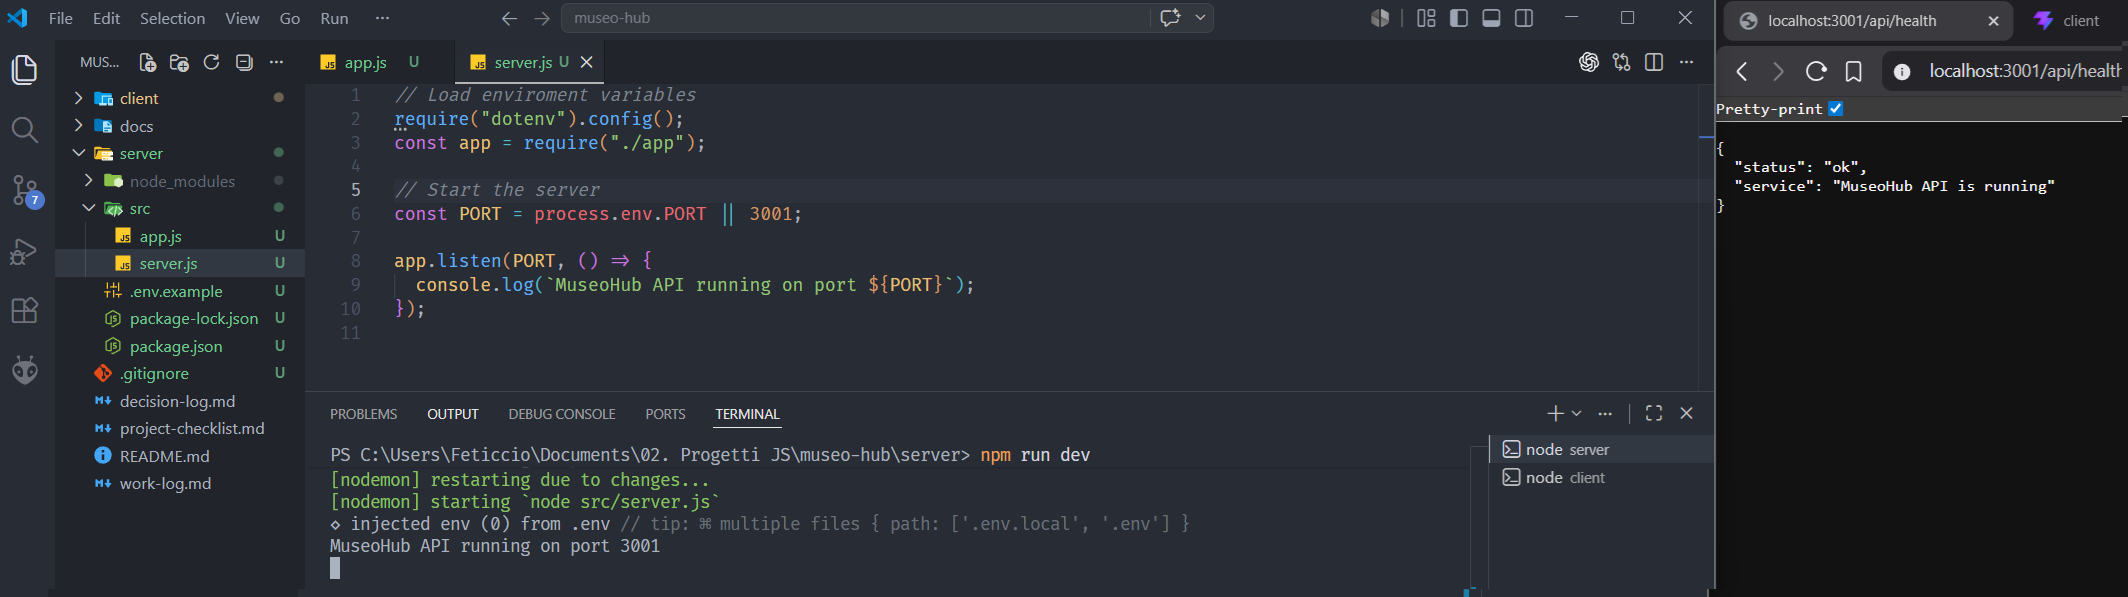
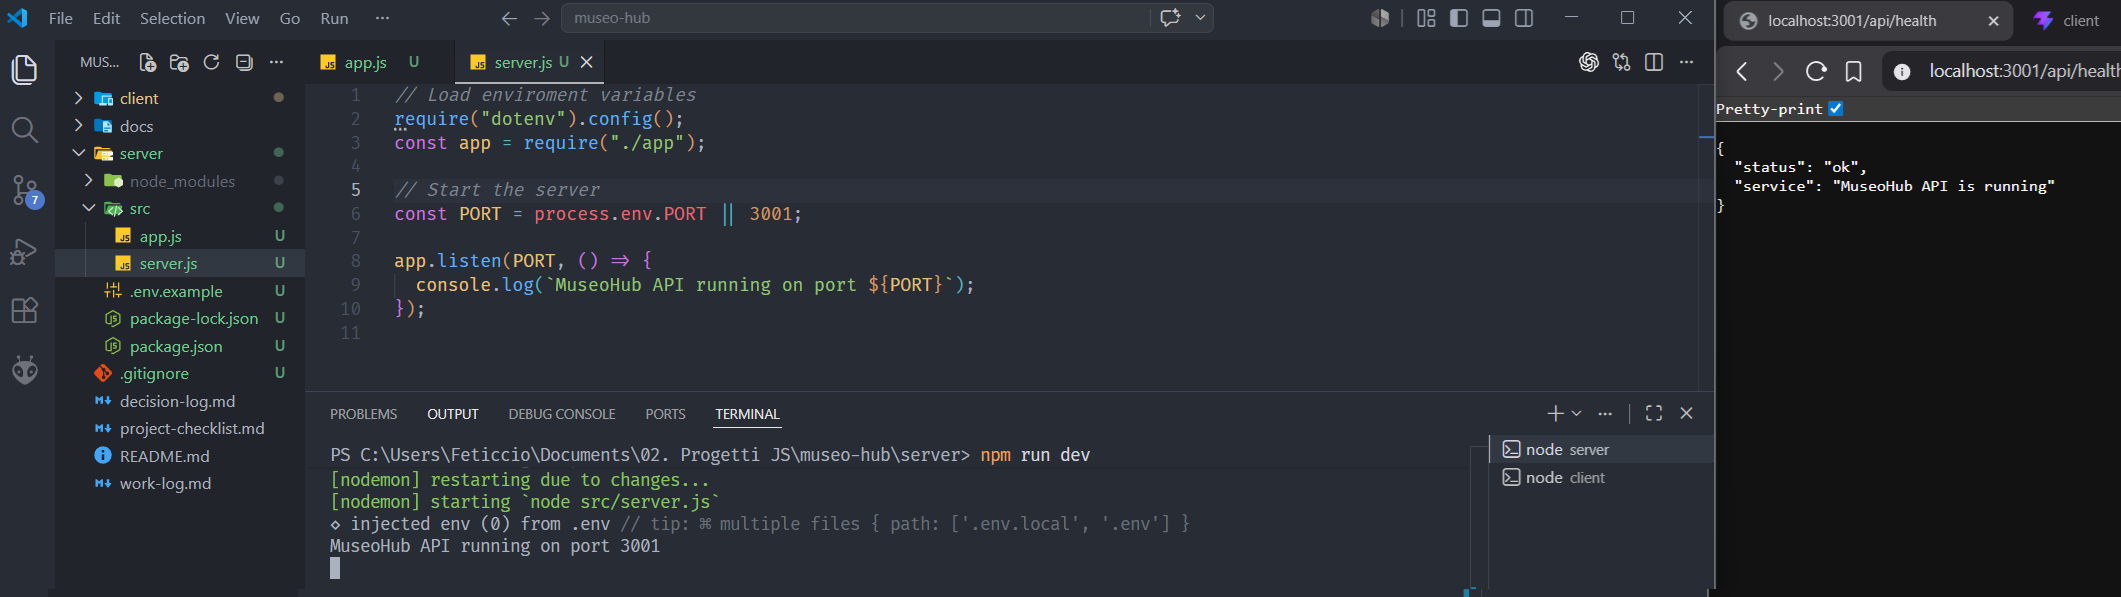
server: implement events API

diff --git a/server/src/db/seedDb.js b/server/src/db/seedDb.js
@@ -1,0 +1,56 @@
+// Import database connection function
+const openDb = require("./database");
+
+// Insert initial test data into the database
+async function seedDb() {
+  const db = await openDb();
+
+  // Remove existing data to make the seed operation repeatable
+  await db.run(`DELETE FROM events`);
+  await db.run(`DELETE FROM bookings`);
+  await db.run(`DELETE FROM feedback`);
+
+  // Insert sample events used for API and frontend testing
+  await db.run(
+    `
+        INSERT INTO events (title, description, date, max_capacity, available_slots, status) VALUES (?, ?, ?, ?, ?, ?)`,
+    [
+      "Mostra d'Arte Contemporanea",
+      "Una mostra che presenta opere di artisti contemporanei di fama internazionale.",
+      "2026-07-15",
+      100,
+      100,
+      "active",
+    ],
+  );
+  await db.run(
+    `
+        INSERT INTO events (title, description, date, max_capacity, available_slots, status) VALUES (?, ?, ?, ?, ?, ?)`,
+    [
+      "Mostra di Fotografia",
+      "Una mostra che presenta una selezione di fotografie di artisti emergenti.",
+      "2026-08-01",
+      50,
+      50,
+      "active",
+    ],
+  );
+  await db.run(
+    `
+        INSERT INTO events (title, description, date, max_capacity, available_slots, status) VALUES (?, ?, ?, ?, ?, ?)`,
+    [
+      "Mostra di Scultura",
+      "Una mostra che presenta una selezione di sculture di artisti contemporanei.",
+      "2026-09-10",
+      30,
+      30,
+      "active",
+    ],
+  );
+  console.log("MuseoHub seed data inserted successfully.");
+}
+
+// Catch any errors during insertion of seed data
+seedDb().catch((error) => {
+  console.error("Seed data insertion failed:", error);
+});

diff --git a/server/src/routes/eventsRoutes.js b/server/src/routes/eventsRoutes.js
@@ -1,0 +1,53 @@
+const express = require("express");
+const openDb = require("../db/database");
+
+const router = express.Router();
+
+// Retrieve all active events for the public catalog
+router.get("/", async (req, res) => {
+  try {
+    const db = await openDb();
+
+    const events = await db.all(`
+      SELECT id, title, description, date, max_capacity, available_slots 
+      FROM events 
+      WHERE status = 'active' 
+      ORDER BY date ASC
+      `);
+
+    res.status(200).json(events);
+  } catch (error) {
+    res.status(500).json({ error: "Fetch events failed" });
+  }
+});
+
+// Retrieve a single event by ID for detailed view
+router.get("/:id", async (req, res) => {
+  try {
+    const db = await openDb();
+    const eventId = Number(req.params.id);
+
+    if (isNaN(eventId) || eventId <= 0) {
+      return res.status(400).json({ error: "Invalid event ID" });
+    }
+
+    const event = await db.get(
+      `
+      SELECT id, title, description, date, max_capacity, available_slots 
+      FROM events 
+      WHERE id = ? 
+      `,
+      [eventId],
+    );
+
+    if (!event) {
+      return res.status(404).json({ error: "Event not found" });
+    }
+
+    res.status(200).json(event);
+  } catch (error) {
+    res.status(500).json({ error: "Fetch event failed" });
+  }
+});
+
+module.exports = router;

diff --git a/server/src/db/initDb.js b/server/src/db/initDb.js
@@ -1,12 +1,13 @@
+// Import file system utilities and database connection
 const fs = require("fs");
 const path = require("path");
 const openDb = require("./database");
 
-// Initialize the database by executing the schema SQL file
+// Initialize the database by executing the SQL schema
 async function initDb() {
   const db = await openDb();
 
-  // Read the schema SQL file
+  // Read the schema SQL file from the current directory
   const schemaPath = path.join(__dirname, "schema.sql");
   const schema = fs.readFileSync(schemaPath, "utf8");
 
@@ -14,7 +15,7 @@ async function initDb() {
   await db.exec(schema);
   console.log("MuseoHub database initialized successfully");
 }
-
+// Catch any errors during initialization
 initDb().catch((error) => {
   console.error("Database initialization failed:", error);
 });

diff --git a/server/src/app.js b/server/src/app.js
@@ -1,15 +1,21 @@
-// Import required modules
+// Import Express and middleware modules
 const express = require("express");
 const cors = require("cors");
 
-// Create the Express application
+// Import route modules
+const eventsRoutes = require("./routes/eventsRoutes");
+
+// Create the Express application istance
 const app = express();
 
-// Global Middleware
+// Global Middleware configuration
 app.use(cors());
 app.use(express.json());
 
-// Health check routes
+// Events API routes
+app.use("/api/events", eventsRoutes);
+
+// Health check endpoint
 app.get("/api/health", (req, res) => {
   res.status(200).json({
     status: "ok",
@@ -17,5 +23,5 @@ app.get("/api/health", (req, res) => {
   });
 });
 
-// Export the Express app
+// Export configured Express app
 module.exports = app;

diff --git a/server/src/db/database.js b/server/src/db/database.js
@@ -1,8 +1,8 @@
-// Open a connection: Node --> SQLite database
+// Import SQLite driver and helper library
 const sqlite3 = require("sqlite3");
 const { open } = require("sqlite");
 
-// Open the database connection
+// Open a connection to the MuseoHub SQLite database
 async function openDb() {
   const db = await open({
     filename: "./src/db/museohub.sqlite",
@@ -11,5 +11,5 @@ async function openDb() {
   return db;
 }
 
-// Export the openDb function
+// Export the database connection function
 module.exports = openDb;

diff --git a/server/src/server.js b/server/src/server.js
@@ -1,4 +1,4 @@
-// Load enviroment variables
+// Variables and modules for server setup
 require("dotenv").config();
 const app = require("./app");
 

diff --git a/work-log.md b/work-log.md
@@ -12,19 +12,19 @@ _Questo documento registra in forma sintetica le principali fasi di lavoro svolt
 **Attività:** creazione della struttura del repository, predisposizione dei file Markdown principali, revisione iniziale della documentazione e primi diagrammi di processo.  
 **Riferimento Git:** commit del 15/05/2026 relativi a inizializzazione, aggiornamento documentazione e diagrammi.
 
-### 002 — 16/05/2026-19/05/2026 — Analisi e progettazione preliminare
+### 002 — 16-19/05/2026 — Analisi e progettazione preliminare
 
 **Fase:** sviluppo progressivo e consolidamento della documentazione progettuale.  
 **Attività:** aggiornamento dei documenti di analisi, requisiti, processi, casi d’uso, diagrammi e modello dati preliminare; revisione di coerenza anche sui documenti già prodotti.  
 **Riferimento Git:** commit del 19/05/2026 relativo ad aggiornamento documentazione e diagrammi.
 
-### 003 — 19/05/2026-20/05/2026 — Architettura e API preliminari
+### 003 — 19-20/05/2026 — Architettura e API preliminari
 
 **Fase:** progettazione tecnica preliminare.  
 **Attività:** definizione dell’architettura web client-server, aggiornamento del diagramma architetturale e prima mappatura degli endpoint API previsti.  
 **Riferimento Git:** commit relativo all’aggiornamento di architettura e documentazione API.
 
-### 004 — 20/05/2026-23/05/2026 — Pseudocodice e flusso prenotazione
+### 004 — 20-23/05/2026 — Pseudocodice e flusso prenotazione
 
 **Fase:** progettazione logica preliminare.  
 **Attività:** completamento del pseudocodice delle logiche principali e rappresentazione del flusso tecnico della prenotazione guest tramite sequence diagram.  
@@ -41,3 +41,9 @@ _Questo documento registra in forma sintetica le principali fasi di lavoro svolt
 **Fase:** predisposizione della persistenza dati.  
 **Attività:** installazione delle dipendenze SQLite, creazione dello schema SQL iniziale, configurazione del modulo di apertura database e script di inizializzazione locale.  
 **Riferimento Git:** commit relativo al setup SQLite del backend.
+
+### 007 — 23-24/05/2026 — Implementazione API eventi pubbliche
+
+**Fase:** sviluppo backend API REST.  
+**Attività:** implementazione delle route pubbliche `GET /api/events` e `GET /api/events/:id`, collegamento del router eventi all’applicazione Express, verifica del recupero dati da SQLite e gestione degli errori per identificativi non validi o eventi inesistenti.  
+**Riferimento Git:** commit relativo all’implementazione delle API eventi.

diff --git a/docs/09-test-funzionali.md b/docs/09-test-funzionali.md
@@ -2,3 +2,35 @@
 
 _Questo documento raccoglie i test funzionali previsti ed eseguiti sul prototipo MuseoHub._
 _Documenta scenari d’uso, risultati attesi, risultati ottenuti, eventuali errori riscontrati e screenshot utili alla validazione del sistema._
+
+---
+
+## Test API eventi
+
+### GET /api/events
+
+**Obiettivo:** verificare il recupero della lista degli eventi attivi.
+**Risultato atteso:** restituzione di un array JSON con gli eventi disponibili.
+**Esito:** superato.
+**Screenshot:** `docs/screenshots/04-api-events-list.png`
+
+### GET /api/events/1
+
+**Obiettivo:** verificare il recupero del dettaglio di un evento esistente.
+**Risultato atteso:** restituzione di un oggetto JSON con i dati dell’evento richiesto.
+**Esito:** superato.
+**Screenshot:** `docs/screenshots/05-api-event-detail.png`
+
+### GET /api/events/999
+
+**Obiettivo:** verificare la gestione di un evento inesistente.
+**Risultato atteso:** risposta di errore gestita con messaggio “Event not found”.
+**Esito:** superato.
+**Screenshot:** `docs/screenshots/06-api-event-not-found.png`
+
+### GET /api/events/abc
+
+**Obiettivo:** verificare la validazione di un identificativo evento non numerico.
+**Risultato atteso:** risposta di errore gestita con messaggio “Invalid event ID”.
+**Esito:** superato.
+**Screenshot:** `docs/screenshots/07-api-event-invalid-id.png`

diff --git a/project-checklist.md b/project-checklist.md
@@ -26,15 +26,15 @@ _Serve per controllare l’avanzamento delle attività e garantire che progettaz
 - [x] Creare struttura `server/`
 - [x] Implementare backend Express
 - [x] Creare database SQLite
-- [ ] Implementare API REST principali
+- [x] Implementare API REST principali
 - [x] Creare struttura `client/`
 - [ ] Implementare frontend React
 - [ ] Integrare frontend e backend
 
 ## Test e deploy
 
-- [ ] Documentare test funzionali
-- [ ] Salvare screenshot principali
+- [x] Documentare test funzionali
+- [x] Salvare screenshot principali
 - [ ] Pubblicare frontend su Netlify
 - [ ] Pubblicare backend su Render (se sostenibile)
 - [ ] Documentare istruzioni di esecuzione
